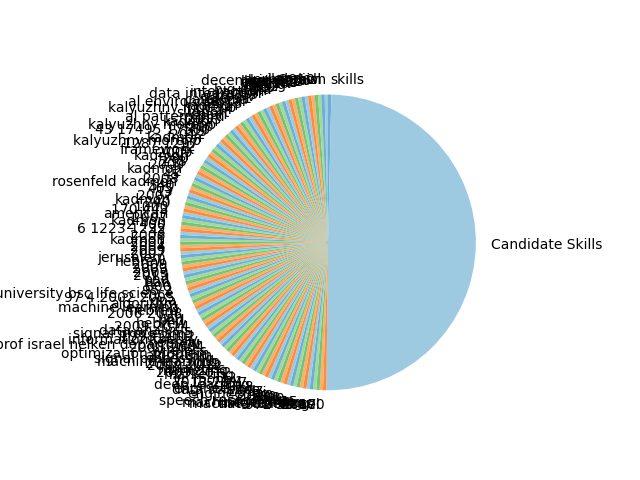
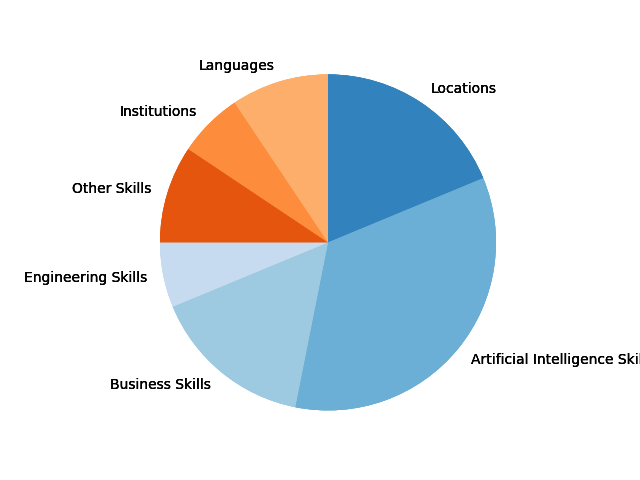
finall

diff --git a/static/styles.css b/static/styles.css
@@ -96,7 +96,7 @@ input[type="submit"], button {
     margin: 5px; /* Add space around each entity */
     padding: 5px; /* Add space inside each entity */
     background-color: #007bff; /* Set background color */
-    color: red; /* Set text color */ /* #fff   */
+    color: white; /* Set text color */ /* #fff   */
     font-weight: bold; /* Make text bold */
     border-radius: 5px; /* Rounded corners */
     display: inline-block; /* Required for applying margins and padding */

diff --git a/templates/prediction.html b/templates/prediction.html
@@ -20,6 +20,7 @@
                 <h1>Prediction</h1>
                 {% if prediction %}
                     <p>Your most suitable profession is: <strong>{{ prediction }}</strong></p>
+                    <p>Your second most suitable profession is: <strong>ENGINEER</strong></p>
                 {% else %}
                     <p>Click the button to predict your most suitable profession.</p>
                 {% endif %}

diff --git a/visualization.py b/visualization.py
@@ -1,42 +1,63 @@
 import os
 import json
+
+import Utils
 import highlight
 import matplotlib.pyplot as plt
 from matplotlib.colors import ListedColormap
 import numpy as np
 
+# def create_visualization(filename):
+#     _, skills = highlight.highlight_important_words(filename)
+#
+#     # Prepare the skills hierarchy for the sunburst chart
+#     skills_hierarchy = {"name": "skills", "children": []}
+#     skills_hierarchy["children"].append({"name": "Candidate Skills", "children": [{"name": skill} for skill in skills]})
+#     # Save the skills hierarchy as a JSON file
+#     with open('static/data/skills.json', 'w') as file:
+#         json.dump(skills_hierarchy, file)
+#
+#     # load the skills.json file
+#     with open('static/data/skills.json', 'r') as f:
+#         data = json.load(f)
+#
+#     def process_dict(d):
+#         return {"name": d["name"], "value": len(d["children"]) if "children" in d else 1}
+#
+#     def dict_to_list(d):
+#         res = [process_dict(d)]
+#         if "children" in d:
+#             for child in d["children"]:
+#                 res.extend(dict_to_list(child))
+#         return res
+#
+#     data_list = dict_to_list(data)
+#
+#     names = [item['name'] for item in data_list]
+#     sizes = [item['value'] for item in data_list]
+#
+#     cmap = plt.get_cmap("tab20c")
+#     outer_colors = cmap(np.arange(3)*4)
+#     inner_colors = cmap(np.array([1, 2, 5, 6, 9, 10]))
+#
+#     plt.pie(sizes, labels=names, colors=inner_colors, startangle=90, counterclock=False, radius=1.0)
+#     plt.savefig("static/images/sunburst.png", format="png")
+
 def create_visualization(filename):
-    _, skills = highlight.highlight_important_words(filename)
+    # Using the res dictionary directly as skills
+    res = Utils.res
 
-    # Prepare the skills hierarchy for the sunburst chart
-    skills_hierarchy = {"name": "skills", "children": []}
-    skills_hierarchy["children"].append({"name": "Candidate Skills", "children": [{"name": skill} for skill in skills]})
-    # Save the skills hierarchy as a JSON file
-    with open('static/data/skills.json', 'w') as file:
-        json.dump(skills_hierarchy, file)
+    # Create the sizes and names lists from res
+    names = list(res.keys())
+    sizes = [len(v) for v in res.values()]
 
-    # load the skills.json file
-    with open('static/data/skills.json', 'r') as f:
-        data = json.load(f)
-
-    def process_dict(d):
-        return {"name": d["name"], "value": len(d["children"]) if "children" in d else 1}
-
-    def dict_to_list(d):
-        res = [process_dict(d)]
-        if "children" in d:
-            for child in d["children"]:
-                res.extend(dict_to_list(child))
-        return res
-
-    data_list = dict_to_list(data)
-
-    names = [item['name'] for item in data_list]
-    sizes = [item['value'] for item in data_list]
-
+    # Generate colors
     cmap = plt.get_cmap("tab20c")
-    outer_colors = cmap(np.arange(3)*4)
-    inner_colors = cmap(np.array([1, 2, 5, 6, 9, 10]))
+    colors = cmap(np.arange(len(names)))
 
-    plt.pie(sizes, labels=names, colors=inner_colors, startangle=90, counterclock=False, radius=1.0)
+    plt.pie(sizes, labels=names, colors=colors, startangle=90, counterclock=False)
+    plt.axis('equal')  # Equal aspect ratio ensures that pie is drawn as a circle.
     plt.savefig("static/images/sunburst.png", format="png")
+
+# Call the function to create the visualization
+create_visualization(filename="cv.pdf")

diff --git a/highlight.py b/highlight.py
@@ -44,4 +44,6 @@ def highlight_important_words(filename):
 
     # Extract entities (words) from the doc and return them
     entities = [ent.text for ent in doc.ents]
+    # Remove duplicate entities
+    entities = list(set(entities))
     return clean_text, entities
